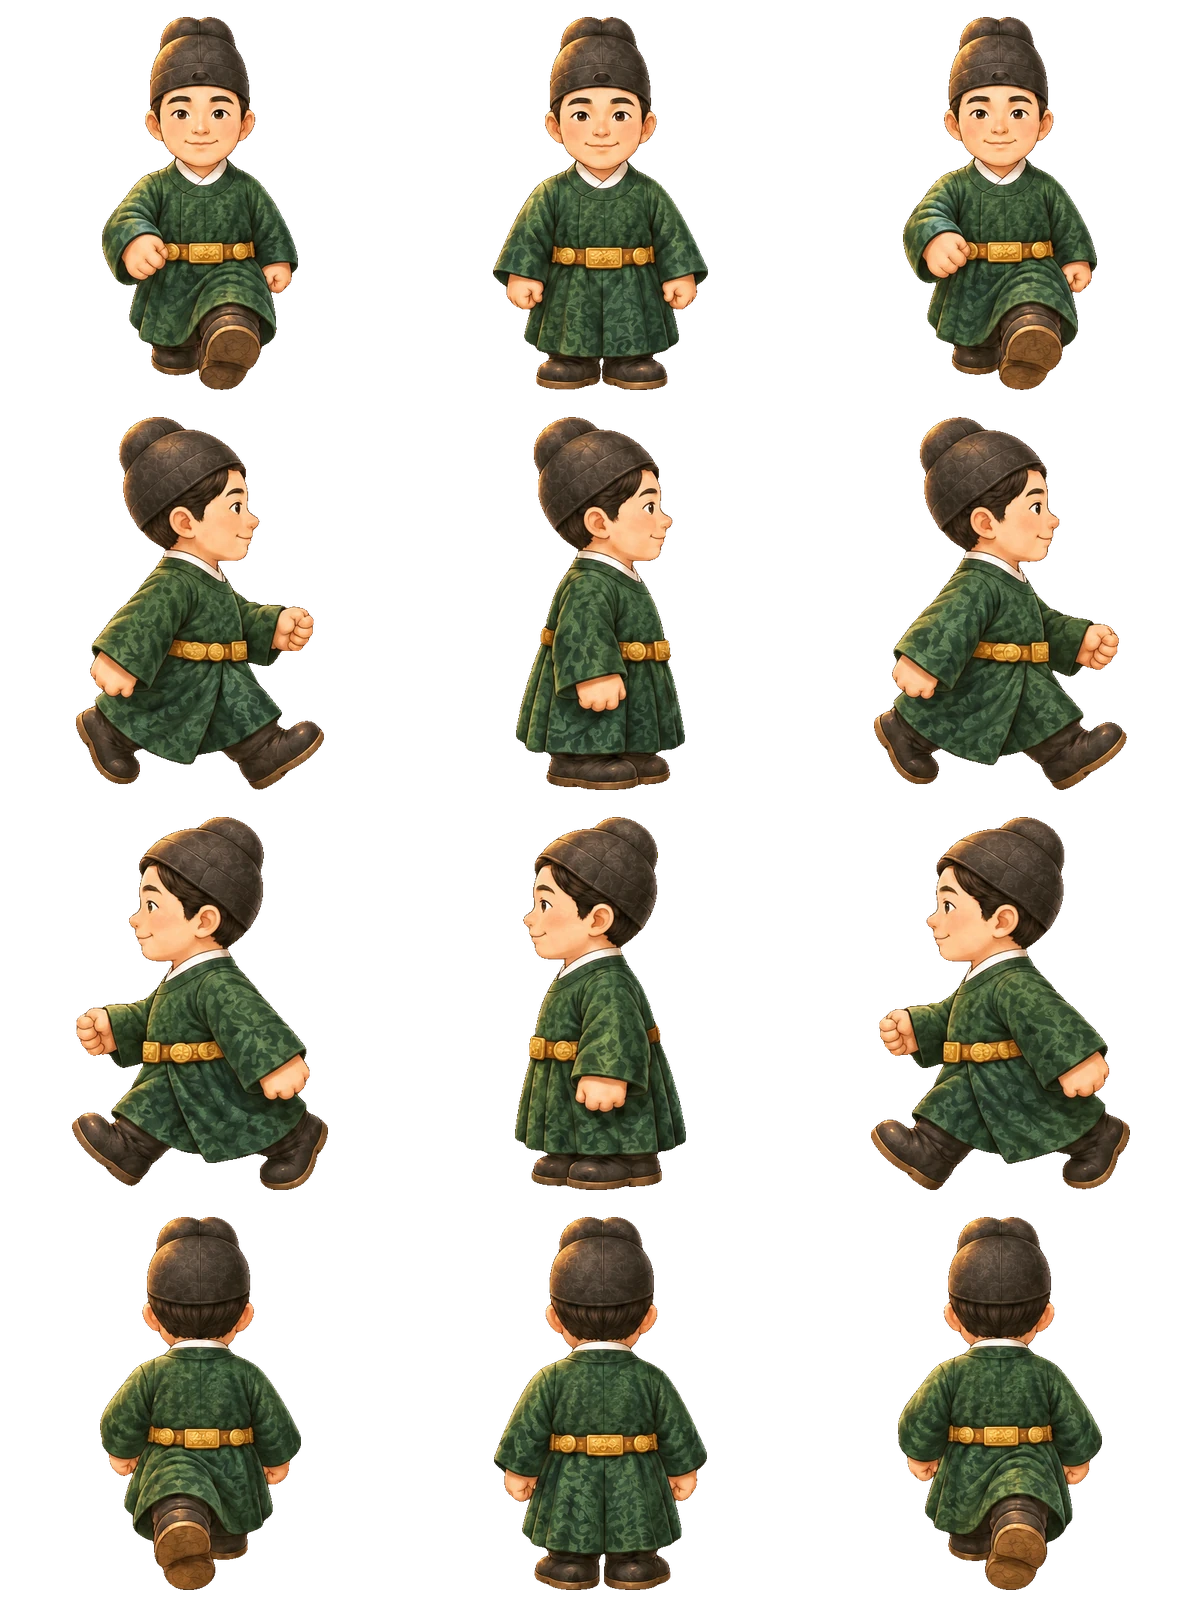
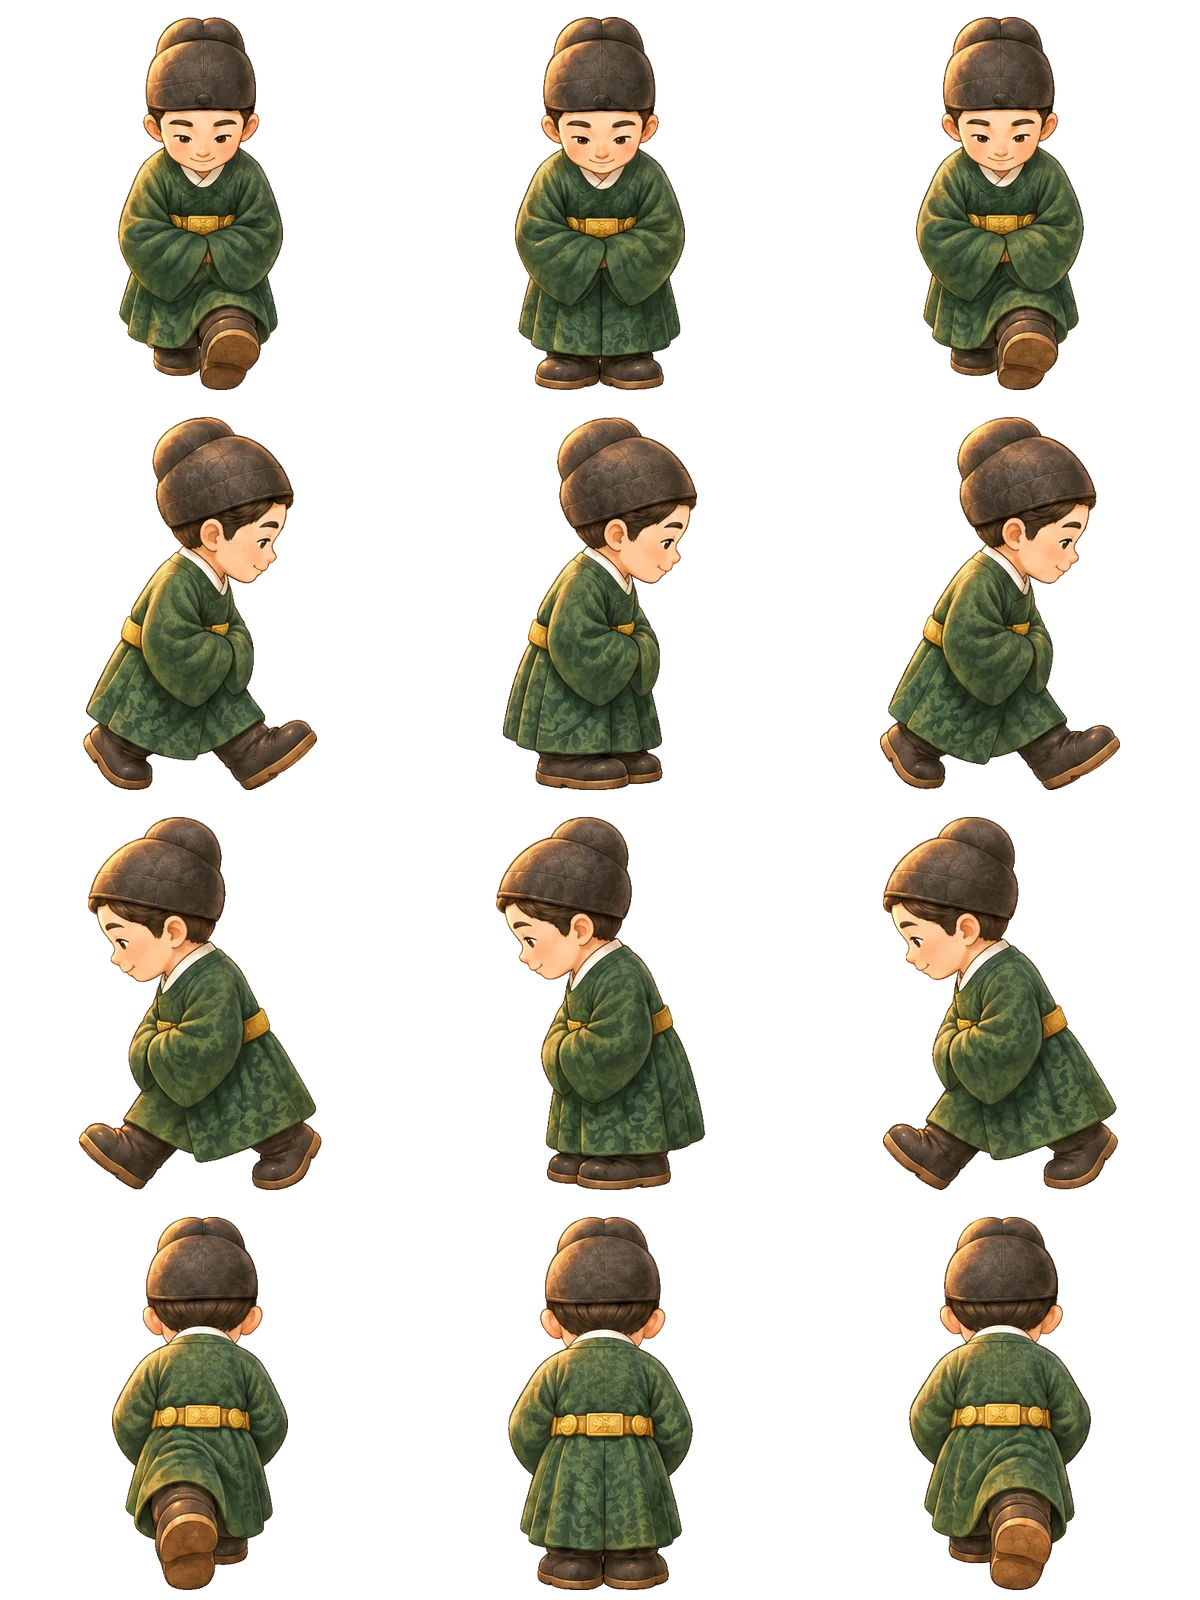
Village v54: indoor sizes, throne any time, bowing, humble 상선
- Bottom hint line removed; short tips show as a toast
- Indoors everyone matches the 임금's size at that spot in the room
- The throne works without a meeting
- Villagers stop, face and bow near the 임금; they step out of his path first
- New 상선 sheet: slightly bowed, hands joined in his sleeves

Claude-Session: https://claude.ai/code/session_01LvBCxJYPWiyxgsyhqMEFF6

Changed region(s): [[0.7092, 0.0, 0.9558, 1.0], [0.0617, 0.0, 0.2775, 1.0], [0.4008, 0.0, 0.5858, 1.0]]

diff --git a/ai-village/js/village.js b/ai-village/js/village.js
@@ -437,8 +437,11 @@
     if (r.emergeT > 0) { r.emergeT -= dt; r.visible = false; r.hidden = true; return; }   // still walking out of the throne hall
     r.hidden = false;
     const house = r.houseObj, ps = playerSpace();
-    r.h = r.space === "in" ? roomH(r.y) : town.P * 1.02;
     const here = sameSpace(r, ps);
+    r.h = r.space === "in" ? (here && inside ? roomHeightAt(r.y) : roomH(r.y)) : town.P * 1.02;   // indoors: the same size as the 임금 at that depth
+    // bowing: everyone near the 임금 bows (eased in and out); the pose is drawn in drawSprite
+    const nearK = here && !r.seated && !r.candidate && Math.hypot(player.x - r.x, (player.y - r.y) * 1.3) < player.h * 2.1 && !(player.seated && court.active);
+    r.bow = (r.bow || 0) + ((nearK && !r.dodge ? 1 : 0) - (r.bow || 0)) * Math.min(1, dt * 5);
     r.visible = here && !(r.candidate && court.active);
     if (r.candidate) {        // waiting in the town hall for the 임금's interview
       const dx = player.x - r.x, dy = player.y - r.y;
@@ -455,7 +458,29 @@
       return;
     }
     const wantWork = working.has(r.id) && !!house;
-    // stop and look at the King when he comes near (not while seated at work)
+    // about to be walked into: step aside out of the 임금's path (then bow)
+    if (here && !r.seated) {
+      if (r.dodge) {
+        const dx = r.dodge.x - r.x, dy = r.dodge.y - r.y, d = Math.hypot(dx, dy);
+        r.dodgeT -= dt;
+        if (d < 2 || r.dodgeT <= 0) r.dodge = null;
+        else {
+          const st = Math.min(d, r.h * 3.2 * dt), nx = r.x + dx / d * st, ny = r.y + dy / d * st;
+          if (r.space === "in" || footFree(nx, ny, r.h * 0.12)) { r.x = nx; r.y = ny; } else r.dodge = null;
+          r.moving = true; return;
+        }
+      } else if (player.moving) {
+        const v = { up: [0, -1], down: [0, 1], left: [-1, 0], right: [1, 0] }[player.dir] || [0, 0];
+        const rx = r.x - player.x, ry = r.y - player.y, along = rx * v[0] + ry * v[1], lat = rx * -v[1] + ry * v[0];
+        if (along > 0 && along < player.h * 1.7 && Math.abs(lat) < player.h * 0.55) {
+          const side = lat >= 0 ? 1 : -1, push = player.h * 0.95 - Math.abs(lat);
+          let tx = r.x + -v[1] * side * push, ty = r.y + v[0] * side * push;
+          if (r.space !== "in" && !footFree(tx, ty, r.h * 0.12)) { tx = r.x + v[1] * side * (player.h * 0.95 + Math.abs(lat)); ty = r.y - v[0] * side * (player.h * 0.95 + Math.abs(lat)); }
+          if (r.space === "in" || footFree(tx, ty, r.h * 0.12)) { r.dodge = { x: tx, y: ty }; r.dodgeT = 0.8; r.plan = null; r.path = null; return; }
+        }
+      }
+    }
+    // stop and look at the King when he comes near (not while seated at work), and bow
     if (here && !r.seated && Math.hypot(player.x - r.x, player.y - r.y) < player.h * (r.space === "in" ? 1.6 : 2.0)) {
       const dx = player.x - r.x, dy = player.y - r.y;
       r.dir = Math.abs(dx) > Math.abs(dy) ? (dx > 0 ? "right" : "left") : (dy > 0 ? "down" : "up");
@@ -630,6 +655,8 @@
 
   function updateAide(dt) {
     if (!aide.img) return;
+    // the 상선's bow and joined hands are drawn into his sheet itself (no extra lean needed)
+    aide.bow = 0;
     if (player.seated && court.data && inThroneHall()) { // stand beside the throne
       const sp = court.data.sangseon; aide.h = roomHeightAt(sp.y) * 0.97;
       const dx = sp.x - aide.x, dy = sp.y - aide.y, d = Math.hypot(dx, dy);
@@ -849,6 +876,13 @@
     ctx.fillStyle = "rgba(40,25,10,0.28)";
     if (!noShadow) { ctx.beginPath(); ctx.ellipse(a.x, a.y - a.h * 0.01, a.h * 0.2, a.h * 0.06, 0, 0, Math.PI * 2); ctx.fill(); }
     if (a.dir === "up") drawHopae(a, col); // seen from behind, the tag is partly hidden by the body
+    if (a.bow > 0.02) {
+      const side = a.dir === "right" ? 1 : a.dir === "left" ? -1 : 0;
+      ctx.translate(a.x, a.y);
+      if (side) ctx.rotate(side * 0.24 * a.bow);
+      ctx.scale(1, 1 - (side ? 0.04 : 0.12) * a.bow);
+      ctx.translate(-a.x, -a.y);
+    }
     if (a.ghost) ctx.filter = "grayscale(1) brightness(1.08) contrast(0.85)";
     ctx.drawImage(a.img, col * FRAME, ROW[a.dir] * FRAME, FRAME, FRAME, a.x - dw / 2, a.y - FEET * k, dw, dw);
     if (a.dir !== "up") drawHopae(a, col);
@@ -1283,6 +1317,7 @@
 
   // the throne: walk up onto it to sit; any arrow key stands you up again
   function updateThrone() {
+    if (inside && inside.house.id === "throne-hall" && !court.data && !court.loading) { court.loading = true; loadCourt().catch((e) => console.warn(e)).finally(() => { court.loading = false; }); }
     if (!inThroneHall() || !court.data) { player.seated = false; return; }
     const t = court.data.throne;
     if (!player.seated && Math.abs(player.x - t.x) < 150 && player.y < t.y + 110) { // a generous zone in front of the throne
@@ -2200,10 +2235,10 @@ ${dirs.map((d) => `  - id "${d.id}": ${d.display} of ${d.townId === "mojoco" ? "
   });
   const hintEl = document.querySelector(".hint");
   let hintT = null;
-  function flashHint(msg) {
-    if (!hintEl) return; const old = hintEl.dataset.base || (hintEl.dataset.base = hintEl.textContent);
-    hintEl.textContent = msg; clearTimeout(hintT); hintT = setTimeout(() => (hintEl.textContent = old), 2200);
+  function flashHint(msg) {   // the bottom hint line is gone: short tips show as a brief toast instead
+    showToast(msg, "", null); clearTimeout(hintT); hintT = setTimeout(() => { toastEl.hidden = true; }, 2200);
   }
+
 
   // ---------- meeting chat: talk to the whole room, or to one person in it ----------
   // Shown on the left while a court meeting is on in the throne hall. "Everyone" is picked first: the room hears

diff --git a/ai-village/index.html b/ai-village/index.html
@@ -209,7 +209,6 @@
   </header>
   <main>
     <canvas id="scene" aria-label="Painted map of the village with living effects. Walk the King with the arrow keys or WASD."></canvas>
-    <div class="hint">Arrow keys or WASD to walk · hold Shift to run · drag your King anywhere · drag the map to look around · scroll to zoom · T = talk to someone nearby · double-tap M = 영의정 이균 · double-tap N = 상선 김모심 · in chat: "[name], come here" / "get back to work" · C = village talk · F = full screen · J = try "everyone at work"</div>
     <div class="zoom">
       <button id="zoom-in" aria-label="Zoom in">+</button>
       <button id="zoom-out" aria-label="Zoom out">−</button>

diff --git a/ai-village/NOTES.md b/ai-village/NOTES.md
@@ -630,3 +630,10 @@ A running record of every decision we make, so nothing gets lost between session
 - Director's decisions on the audit: leave the "Ad Studio image sync" scheduled task as it is (not part of the village; don't raise it again). The director will pin the Ollama connector on his Mac himself.
 - Full screen (director): a "Full screen" header button and the F key. Uses the browser's real full screen when allowed; if the claude.ai frame doesn't allow it, falls back to focus mode (header and hint hidden, map fills the frame). A small "Exit full screen" button sits top right; F or Esc leaves. (version 50)
 - Fix: in full screen the header menu now stays visible (only the hint line hides); its button reads "Exit full screen". (version 51)
+- The instruction line at the bottom of the page is removed (director). Short tips like "Walk up to someone, then press T" now show as a brief toast. Keys still: arrows/WASD, Shift run, T talk, M M 영의정, N N 상선, C village talk, F full screen, J everyone at work. (version 52)
+- (director, version 53)
+  - Indoors, everyone is drawn at the 임금's size for that spot in the room (same room scale and depth shrink as him), not the old fixed indoor size.
+  - The throne works any time: walking up to it in the throne hall seats the 임금 even with no meeting on (court data now loads when he enters the hall).
+  - Bowing: everyone near the 임금 stops, faces him and bows (eased in and out; side views lean toward him, front/back views lower the head). Anyone about to be walked into steps aside out of his path first, then bows.
+  - 상선 김모심 always carries himself slightly bowed (deeper when standing). His hands gathered in front like a eunuch needs a new Higgsfield sheet (from his current sheet as reference); awaiting the director's OK on the cost.
+- 상선 HUMBLE SHEET (director approved, 2 credits; balance 23.25 → about 21.25): 9b3200d0-2314-43f1-a761-c79243da1aa4 (gpt_image_2_6, 2K high), redrawn from his K-drama sheet a31785e5 as the same person, walking slightly bowed with his hands joined inside his sleeves in front (gongsu), arms not swinging. Cut out to assets/characters/kim-mosim.webp (old sheet backed up in scratchpad mosim2/kim-mosim.before-bow.webp). The in-code lean on him is turned off since the bow is in the art. His 명패 calling sheet is unchanged (upright, holding the tablet). (version 54)
